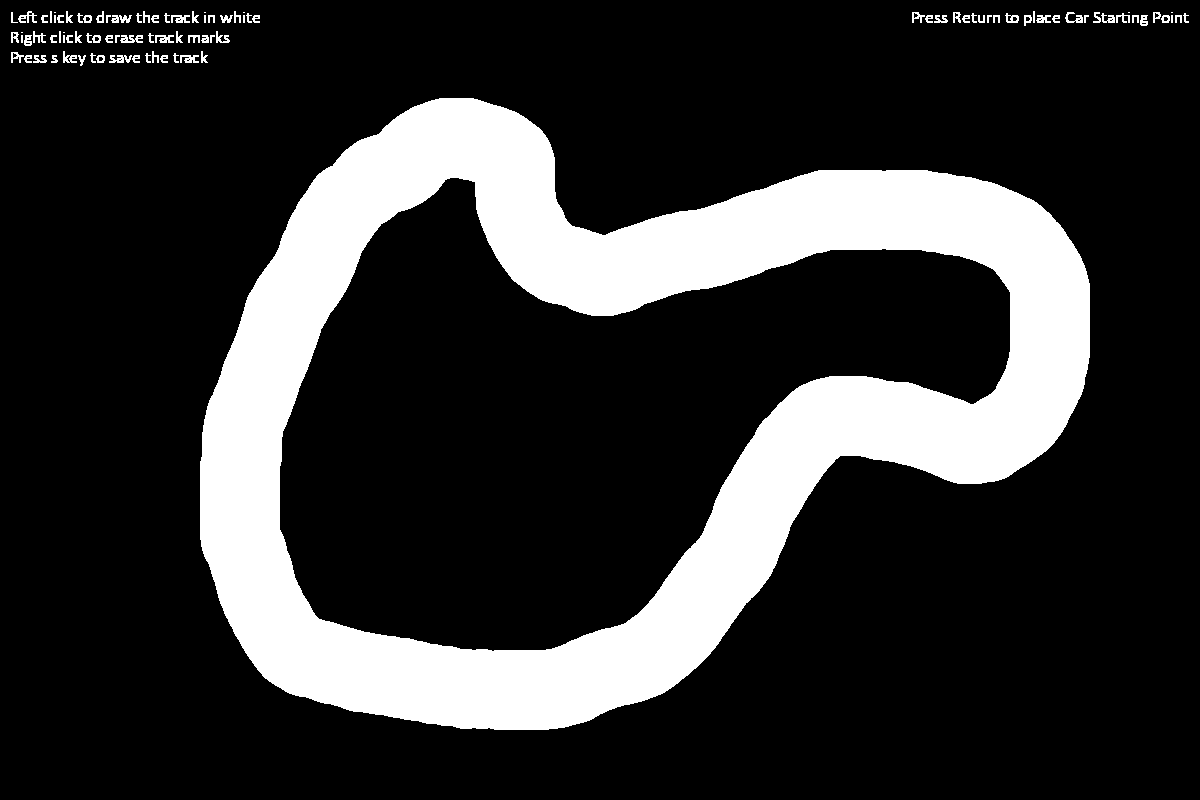
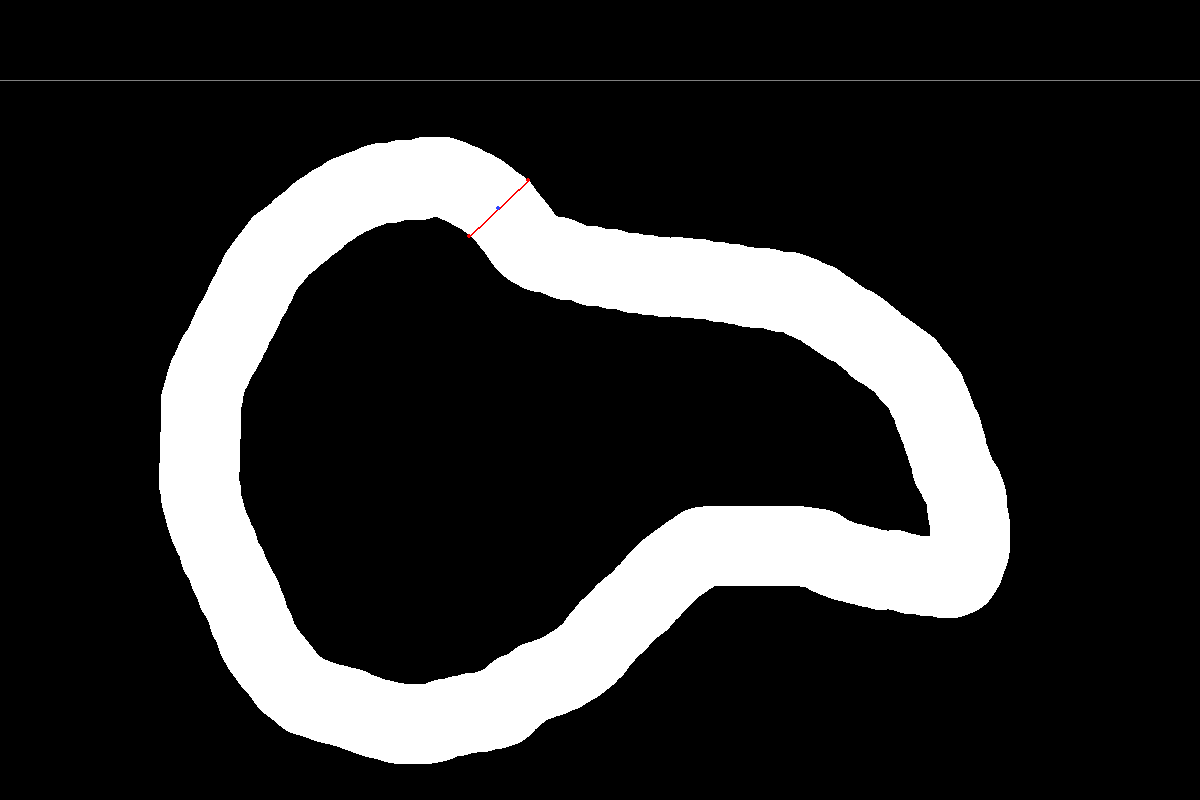
track generation + starting position is fully complete

diff --git a/Genetic_Algorithm_Car/AIMainLoop.py b/Genetic_Algorithm_Car/AIMainLoop.py
@@ -1,3 +1,4 @@
+import os
 import pygame
 from Track import Track
 from Colors import Color
@@ -5,11 +6,6 @@ from Colors import Color
 pygame.init()
 
 font = pygame.font.SysFont("Calibri", 18)
-txtsurf1 = font.render("Left click to draw the track in white", True, Color.WHITE)
-txtsurf2 = font.render("Right click to erase track marks", True, Color.WHITE)
-txtsurf3 = font.render("Press s key to save the track", True, Color.WHITE)
-txtsurf4 = font.render("Press Return to place Car Starting Point", True, Color.WHITE)
-txtsurf5 = font.render("Left click to draw the track in white", True, Color.WHITE)
 
 #######################   Testing Racetrack drawing functionnality   #######################
 #######################   Works just as expected - Good news!   ############################
@@ -19,6 +15,7 @@ class AIMainLoop():
     def __init__(self):
         self.track = Track(width=1200, height=800, brush_size=40, background_color=Color.BLACK, track_color=Color.WHITE)
         self.track.surface = pygame.display.set_mode((self.track.width, self.track.height))
+        self.instruction_bar = pygame.Rect(0, 0, self.track.width, 80)
 
     def TrackLoop(self):
         """
@@ -37,29 +34,22 @@ class AIMainLoop():
                     if event.key == pygame.K_ESCAPE:
                         track_running = False
                         break
-                    elif event.key == pygame.K_s:
-                        pygame.image.save(self.track.surface, "./Genetic_Algorithm_Car/assets/racetracks/Racetrack.png")
-                        pygame.display.set_caption("Track Saved")
                     elif event.key == pygame.K_RETURN:
                         track_running = False
                         pygame.display.set_caption("Placing Starting Line")
-                        self.MainLoop()
+                        self.track.surface.fill(Color.BLACK, self.instruction_bar)
+                        self.StartingPosLoop()
 
-
-            self.track.surface.blit(txtsurf1,(10, txtsurf1.get_height() // 2))
-            self.track.surface.blit(txtsurf2,(10, txtsurf1.get_height() // 2 + 20))
-            self.track.surface.blit(txtsurf3,(10, txtsurf1.get_height() // 2 + 40))
-            self.track.surface.blit(txtsurf4,(self.track.width - txtsurf4.get_width() // 2 - 150, txtsurf4.get_height() // 2))
-
-
+            self.track.separation_line()
+            self.track.blit_text_track_drawing()
             self.track.user_track_drawing()
             pygame.display.flip()
 
             clock.tick(60)
 
-    def MainLoop(self):
+    def StartingPosLoop(self):
         """
-        MainLoop function is in charge of the driving simulation itself
+        StartingPosLoop function is in charge of setting the starting line (and the starting point, at the middle of the starting line)
         """
         running = True
         while running:
@@ -68,28 +58,56 @@ class AIMainLoop():
 
             for event in pygame.event.get():    
                 if event.type == pygame.QUIT:
-                    track_running = False
+                    running = False
                     break
                 elif event.type == pygame.KEYDOWN:
                     if event.key == pygame.K_ESCAPE:
-                        track_running = False
+                        running = False
                         break
+                    elif event.key == pygame.K_RETURN:
+                        running = False
+                        self.track.surface.fill(Color.BLACK, self.instruction_bar)
+                        pygame.image.save(self.track.surface, "./Genetic_Algorithm_Car/assets/racetracks/Racetrack.png")
+                        pygame.display.set_caption("Track Saved")
+                        pygame.time.wait(500)
+                        pygame.display.set_caption("Begin simulation")
+                        self.MainLoop()
 
-            self.track.surface.blit(txtsurf5,(10, txtsurf5.get_height() // 2))
-            
-            """
-            # To debug starting position - works just fine
 
-            if self.track.starting_position != []:
-                print(self.track.starting_position)
-            """
+            self.track.separation_line()
+            self.track.blit_test_starting_line()
             
-            # Need to debug starting line - three clicks then bugs
-            self.track.user_track_starting_line()
+            if self.track.user_track_starting_line() == True:
+                self.track.user_starting_position()
+
             pygame.display.flip()
 
             clock.tick(60)
 
 
+    def MainLoop(self):
+        """
+        MainLoop function is in charge of the Self Driving Car simulation
+        """
+        running = True
+        while running:
+
+            for event in pygame.event.get():    
+                if event.type == pygame.QUIT:
+                    running = False
+                    break
+                elif event.type == pygame.KEYDOWN:
+                    if event.key == pygame.K_ESCAPE:
+                        running = False
+                        break
+
+            self.selected_circuit = pygame.image.load("./Genetic_Algorithm_Car/assets/racetracks/Racetrack.png")
+            self.track.surface.fill((0, 0, 0))
+            self.track.surface.blit((self.selected_circuit), (0, 0))   
+
+            pygame.display.flip()
+
+
+
 loop = AIMainLoop()
-loop.TrackLoop()
+loop.MainLoop() # To avoid having to build the track every time ^^

diff --git a/Genetic_Algorithm_Car/Track.py b/Genetic_Algorithm_Car/Track.py
@@ -1,6 +1,8 @@
 import pygame
 from Colors import Color
 
+pygame.init()
+font = pygame.font.SysFont("Calibri", 18)
 
 
 class Track():
@@ -11,11 +13,22 @@ class Track():
             self.surface.fill(background_color)
             self.track_color = track_color
             self.brush_size = brush_size
-            self.starting_position = []
             self.pos1 = tuple
             self.pos2 = tuple
-            self.click = 0
+            self.starting_position = tuple
+            self.spos1 = 0
+            self.spos2 = 0
 
+    def separation_line(self):
+        pygame.draw.line(self.surface, Color.GREY, start_pos=(0, 80), end_pos=(self.width, 80))
+
+    def blit_text_track_drawing(self):
+        txtsurf1 = font.render("Left click to draw the track in white", True, Color.WHITE)
+        txtsurf2 = font.render("Right click to erase track marks", True, Color.WHITE)
+        txtsurf4 = font.render("PRESS RETURN TO PLACE STARTING LINE", True, Color.WHITE)
+        self.surface.blit(txtsurf1,(10, txtsurf1.get_height() // 2))
+        self.surface.blit(txtsurf2,(10, txtsurf1.get_height() // 2 + 20))
+        self.surface.blit(txtsurf4,(self.width - txtsurf4.get_width() // 2 - 150, txtsurf4.get_height() // 2))
 
     def user_track_drawing(self):
         if pygame.mouse.get_pressed()[0]:
@@ -35,7 +48,13 @@ class Track():
             self.starting_position = pygame.mouse.get_pos()
             pygame.display.set_caption("Starting Position Set")
 
-
+    def blit_test_starting_line(self):
+        txtsurf5 = font.render("Left click to place first point of the starting line", True, Color.WHITE)
+        txtsurf6 = font.render("Right click to place second point of the starting line", True, Color.WHITE)
+        txtsurf4 = font.render("PRESS RETURN TO SAVE TRACK AND BEGIN SIMULATION", True, Color.WHITE)
+        self.surface.blit(txtsurf5,(10, txtsurf5.get_height() // 2))
+        self.surface.blit(txtsurf6,(10, txtsurf5.get_height() // 2 + 20))
+        self.surface.blit(txtsurf4,(self.width - txtsurf4.get_width() // 2 - 220, txtsurf4.get_height() // 2))
 
     def user_track_starting_line(self):
         if pygame.mouse.get_pressed()[0]:
@@ -45,21 +64,14 @@ class Track():
             pygame.draw.circle(self.surface, Color.RED, pygame.mouse.get_pos(), 2)
             self.pos2 = pygame.mouse.get_pos()
             pygame.draw.line(self.surface, Color.RED, start_pos=self.pos1, end_pos=self.pos2, width=2)
-            self.starting_position = tuple((self.pos1[0] - self.pos2[0], self.pos1[1] - self.pos2[1]))
-            print(self.starting_position)
-            pygame.draw.circle(self.surface, Color.BLUE, self.starting_position, 2)
-            return
+            return True
+
+    def user_starting_position(self):
+        self.starting_position = (self.spos1, self.spos2)
+        self.spos1 = (self.pos1[0] + self.pos2[0])/2
+        self.spos2 = (self.pos1[1] + self.pos2[1])/2
+        pygame.draw.circle(self.surface, Color.BLUE, self.starting_position, 2)
 
 
-            """
-        if pygame.mouse.get_pressed()[0]:
-            self.starting_line.append(pygame.mouse.get_pos())
-            pygame.draw.circle(self.surface, Color.RED, pygame.mouse.get_pos(), 2)
 
-        if len(self.starting_line) == 2:
-            pygame.draw.line(self.surface, Color.RED, start_pos=self.starting_line[0], end_pos=self.starting_line[1], width=2)
-            self.starting_position = tuple((self.starting_line[0][1] - self.starting_line[0][0], self.starting_line[1][1] - self.starting_line[1][0]))
-            pygame.draw.circle(self.surface, Color.BLUE, self.starting_position, 2)
-            print("Starting Line placed")
-            """
             

diff --git a/Genetic_Algorithm_Car/Colors.py b/Genetic_Algorithm_Car/Colors.py
@@ -3,3 +3,4 @@ class Color:
     WHITE = (255, 255, 255)
     RED = (255, 0, 0)
     BLUE = (50, 70, 255)
+    GREY = (128, 128, 128)
